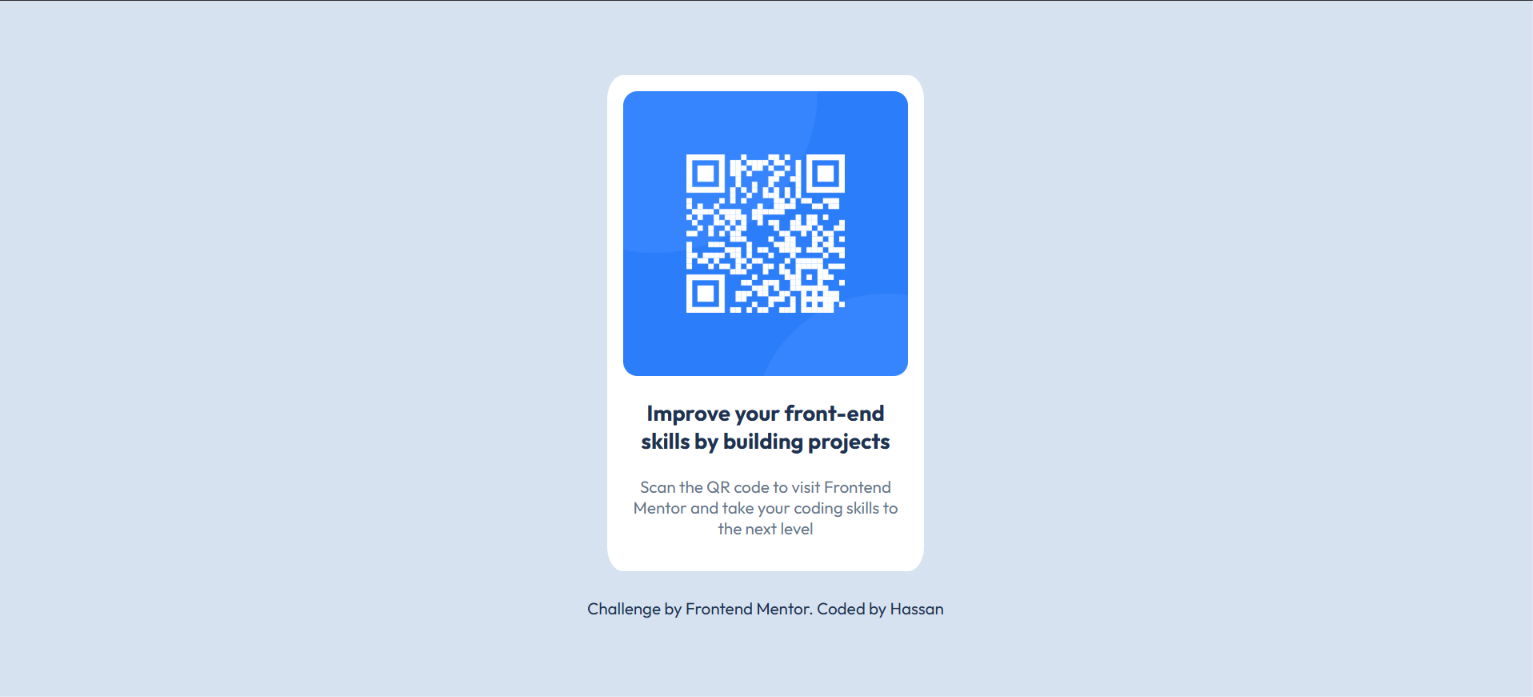
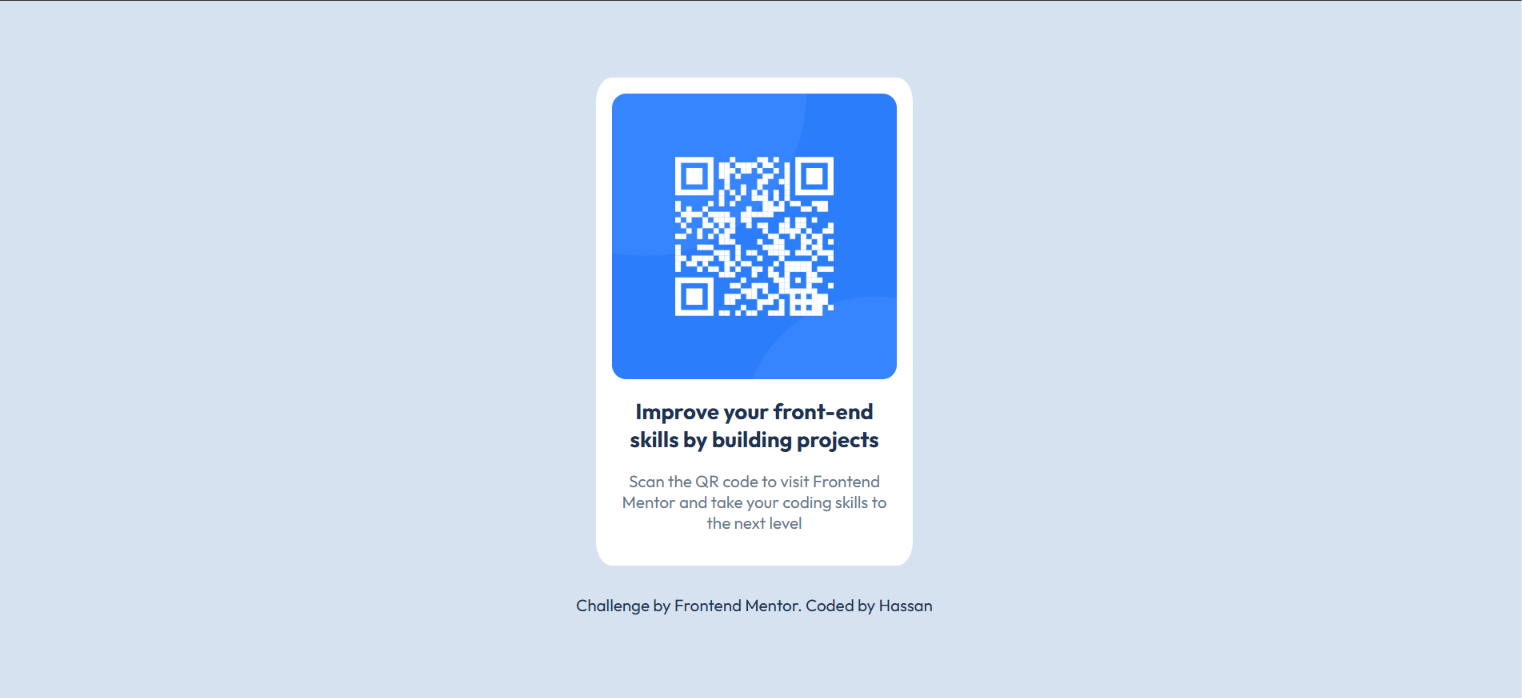
Add CSS variables and use rem units for better scalability

Changed region(s): [[0.3706, 0.1205, 0.6176, 0.7834], [0.3706, 0.8135, 0.6176, 0.9039], [0.5867, 0.7834, 0.6176, 0.8135]]

diff --git a/master.css b/master.css
@@ -5,9 +5,16 @@
     font-family: "Outfit", sans-serif;
 }
 
+html {
+    --main-color: hsl(212, 45%, 89%);
+    --special-color: hsl(218, 44%, 22%);
+    --pharagraph-color: hsl(216, 15%, 48%);
+    --card-color: hsl(0, 0%, 100%);
+}
+
 body {
     min-height: 100vh;
-    background-color: hsl(212, 45%, 89%);
+    background-color: var(--main-color);
     display: grid;
     place-items: center;
 }
@@ -15,7 +22,7 @@ body {
 
 /* start main content */
 .container {
-    background-color: hsl(212, 45%, 89%);
+    background-color: var(--main-color);
     width: 100%;
     display: grid;
     place-items: center;
@@ -23,8 +30,8 @@ body {
 
 /* figure image */
 .container .qr-code-component {
-    background-color: hsl(0, 0%, 100%);
-    width: 18em;
+    background-color: var(--card-color);
+    width: 18rem;
     padding: 0.9em;
     border-radius: 5%;
     display: grid;
@@ -34,14 +41,15 @@ body {
 /* Mobile screens */
 @media (max-width :375px) {
     .container .qr-code-component {
-        width: 16em;
+        width: 16rem;
     }
 }
 
 /* image */
 .container .qr-code-component img {
     display: block;
-    width: 100%;
+    height: auto;
+    max-width: 100%;
     border-radius: 5%;
 }
 
@@ -53,8 +61,8 @@ body {
 
 /* figcaption h1 */
 .qr-code-caption h1 {
-    margin: 1em auto;
-    color: hsl(218, 44%, 22%);
+    margin: 1rem auto;
+    color: var(--special-color);
     font-size: 20px;
     font-weight: 700;
     width: 100%;
@@ -71,8 +79,8 @@ body {
 
 /* figcaption phargraph */
 .qr-code-caption p {
-    margin: 0 auto 1em auto;
-    color: hsl(216, 15%, 48%);
+    margin: 0 auto 1rem auto;
+    color: var(--pharagraph-color);
     font-size: 15px;
     font-weight: 400;
     width: 100%;
@@ -83,17 +91,17 @@ body {
 
 /* Start footer */
 .attribution {
-    margin-top: 1em;
-    padding: 0.6em;
+    margin-top: 1rem;
+    padding: 0.6rem;
     text-align: center;
-    color: hsl(218, 44%, 22%);
+    color: var(--special-color);
     font-size: 15px;
 }
 
 /* Links footer */
 .attribution>a {
     text-decoration: none;
-    color: hsl(218, 44%, 22%);
+    color: var(--special-color);
 }
 
 .attribution>a:hover {
